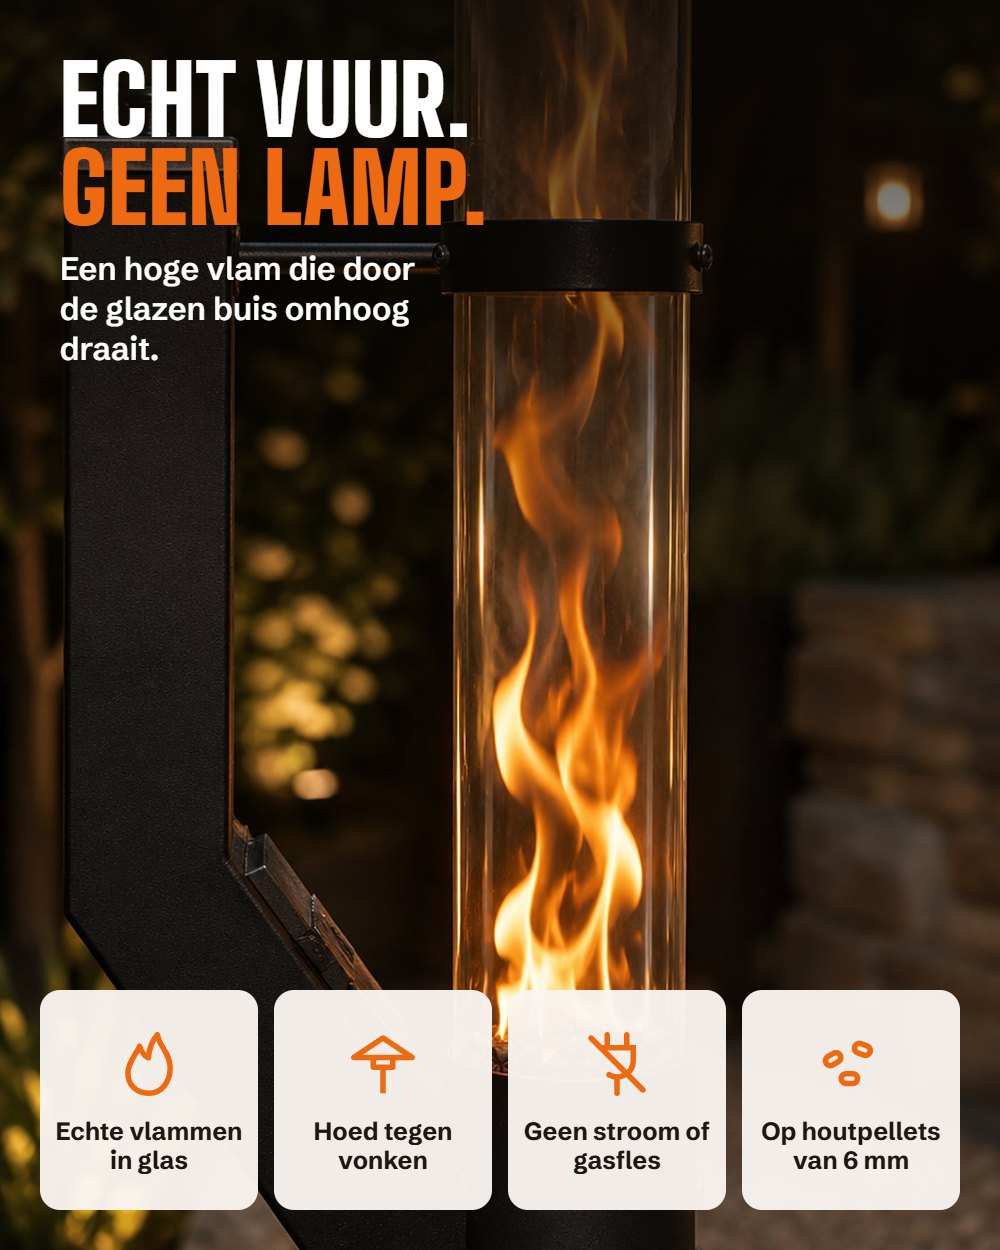
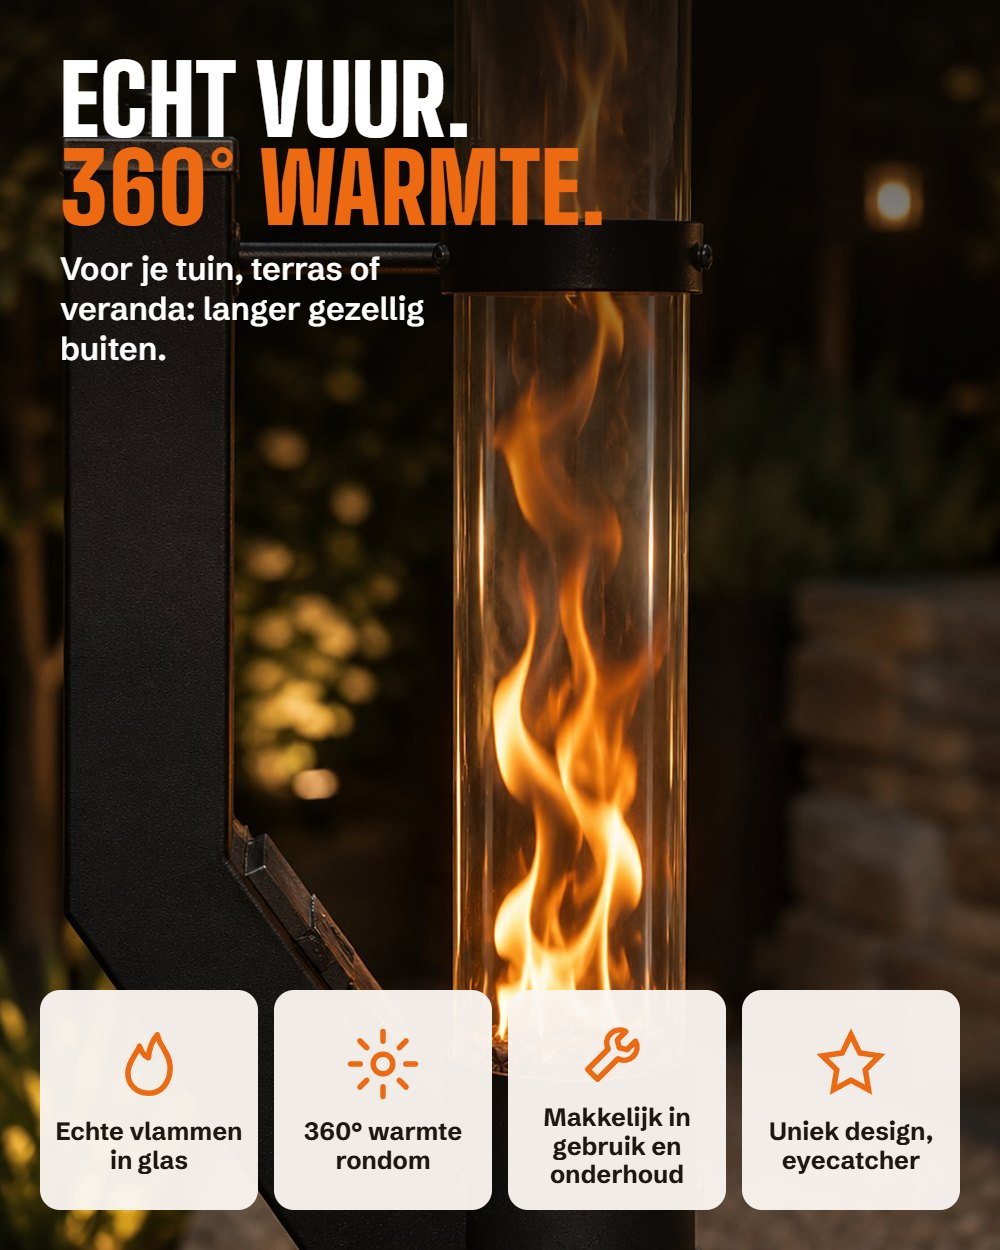
Kernvoordelen (makkelijk, 360° warmte, uniek design), 4 pins op eerste foto, eyecatcher-slide, 10.000+ klanten

diff --git a/v3-licht.html b/v3-licht.html
@@ -601,8 +601,8 @@ footer{background:var(--night-2)}
       <div class="buy">
         <div style="display:grid;gap:8px">
           <h1 class="t" id="pName">Flametower Grand</h1>
-          <div class="rating"><span class="tp">★★★★★</span><b>4,9/5</b> Uitstekend <span class="sep">|</span> <b>50.000+</b> klanten <span class="vbt">voorbeeld</span></div>
-          <p class="s">Staande pellethaard met echte vlammen in een glazen buis en een hoed tegen vonken. Voor een open terras of een open overkapping.</p>
+          <div class="rating"><span class="tp">★★★★★</span><b>4,9/5</b> Uitstekend <span class="sep">|</span> <b>10.000+</b> klanten <span class="vbt">voorbeeld</span></div>
+          <p class="s">Staande pellethaard met echte vlammen in een glazen buis. Voor je tuin, terras of open veranda: gezellig langer buiten op koele avonden.</p>
         </div>
 
         <div>
@@ -619,10 +619,10 @@ footer{background:var(--night-2)}
         </div>
 
         <div class="why"><b>Waarom de Flametower</b><ul>
-            <li>Echte vlammen in een glazen buis, van alle kanten te zien</li>
-            <li>Hoed tegen vonken zit er standaard op</li>
-            <li>Geen stroom of gasfles nodig: zet hem waar je zit</li>
-            <li>Stookt op gewone houtpellets uit de bouwmarkt</li>
+            <li><span><b>Makkelijk</b> in elkaar te zetten, te gebruiken en te onderhouden</span></li>
+            <li><span><b>Veel warmte, 360° rondom</b> de haard</span></li>
+            <li><span><b>Uniek design:</b> een echte eyecatcher in je tuin</span></li>
+            <li><span>Echte vlammen in glas, met hoed tegen vonken</span></li>
             <li id="whySize">183 cm hoog: het middelpunt van je terras</li>
           </ul></div>
         <div hidden><div id="packOpts"></div></div>
@@ -831,7 +831,7 @@ footer{background:var(--night-2)}
     <div class="faq">
       <details><summary>Mag hij onder mijn overkapping?</summary><p>Alleen onder een open overkapping, waar het grootste deel open is en er ruimte boven en rondom de haard is. Onder een dicht dak, in een veranda of op een balkon raden we hem af: rook en warmte moeten weg kunnen.</p></details>
       <details><summary>Rookt hij?</summary><p>Bij het aansteken en bijvullen komt er wat rook vrij. Brandt hij eenmaal goed, dan is het veel minder dan bij een open vuurkorf. Gebruik droge houtpellets van 6 mm.</p></details>
-      <details><summary>Hoe warm wordt het?</summary><p>Je voelt de warmte in een kring om de haard. Zet hem dus vlak bij je zitplek. Een heel terras verwarm je er niet mee.</p></details>
+      <details><summary>Hoe warm wordt het?</summary><p>De Flametower geeft veel warmte, 360 graden rondom. Hoe dichter je erbij zit, hoe warmer. Zet hem midden in je zithoek, dan heeft iedereen er wat aan.</p></details>
       <details><summary>Welke pellets gebruik ik?</summary><p>Gewone houtpellets van 6 mm, zoals je ze bij elke bouwmarkt koopt. In het Startpakket zit een zak van 15 kg.</p></details>
       <details><summary>Wat doet de hoed bovenop?</summary><p>De hoed vangt vonken op die met de vlam meekomen. Fijn als er hout, kussens of planten in de buurt staan. Hij zit bij beide maten standaard erbij.</p></details>
       <details><summary>Grand of Mini, wat past bij mij?</summary><p>Grand (183 cm) voor een vaste plek bij de lounge of eettafel. Mini (122 cm) heeft wieltjes en een handgreep, handig als je hem vaker verplaatst of een kleinere tuin hebt.</p></details>
@@ -887,7 +887,7 @@ footer{background:var(--night-2)}
   const L=(t,x,y,side)=>({t,x,y,side:side||"r"});
   const SIZES={
     groot:{key:"groot",name:"Flametower Grand",full:"Flametower Grand · 183 cm",price:239,was:400,img:"f52",pics:[
-      ["f51","Vrouw naast de Flametower Grand op een terras in de avond",[]],
+      ["f51","Vrouw naast de Flametower Grand op een terras in de avond",[L("Hoed tegen vonken",53,4),L("360° warmte rondom",55,25),L("Makkelijk bij te vullen",42,45,"l"),L("Uniek design · 183 cm",53,92)]],
       ["s_g1","Echt vuur, geen lamp: de vier voordelen van de Flametower",[]],
       ["f52","Flametower Grand brandend op een witte achtergrond",[L("Hoed vangt de vonken op",55,6),L("Vulbak voor houtpellets",44,52,"l")]],
       ["s_g2","Specificaties van de Flametower Grand",[]],
@@ -895,11 +895,11 @@ footer{background:var(--night-2)}
       ["f05","De hoed bovenop de Flametower",[L("Vonken blijven onder de kap",46,25)]],
       ["s_g4","Vergelijking Flametower, vuurkorf en gasheater",[]],
       ["s_g5","Flametower Grand bij de lounge: nog niet naar binnen",[]],
-      ["f107","Flametower Grand zonder vuur",[]],
+      ["s_g7","Uniek design: een eyecatcher in je tuin",[]],
       ["s_g6","Grand of Mini",[]]
     ]},
     klein:{key:"klein",name:"Flametower Mini",full:"Flametower Mini · 122 cm",price:199,was:350,img:"f25",pics:[
-      ["f61","Flametower Mini brandt in een stadstuin",[]],
+      ["f61","Flametower Mini brandt in een stadstuin",[L("Hoed tegen vonken",58,4,"l"),L("360° warmte rondom",60,45,"l"),L("Rol hem mee op wieltjes",70,92,"l")]],
       ["s_m2","Rol hem waar je zit: wieltjes, handgreep, echte vlammen",[]],
       ["f25","Flametower Mini op een witte achtergrond",[L("Hoed tegen vonken",52,4),L("Handgreep om te verrijden",63,43)]],
       ["s_m1","Specificaties van de Flametower Mini",[]],
